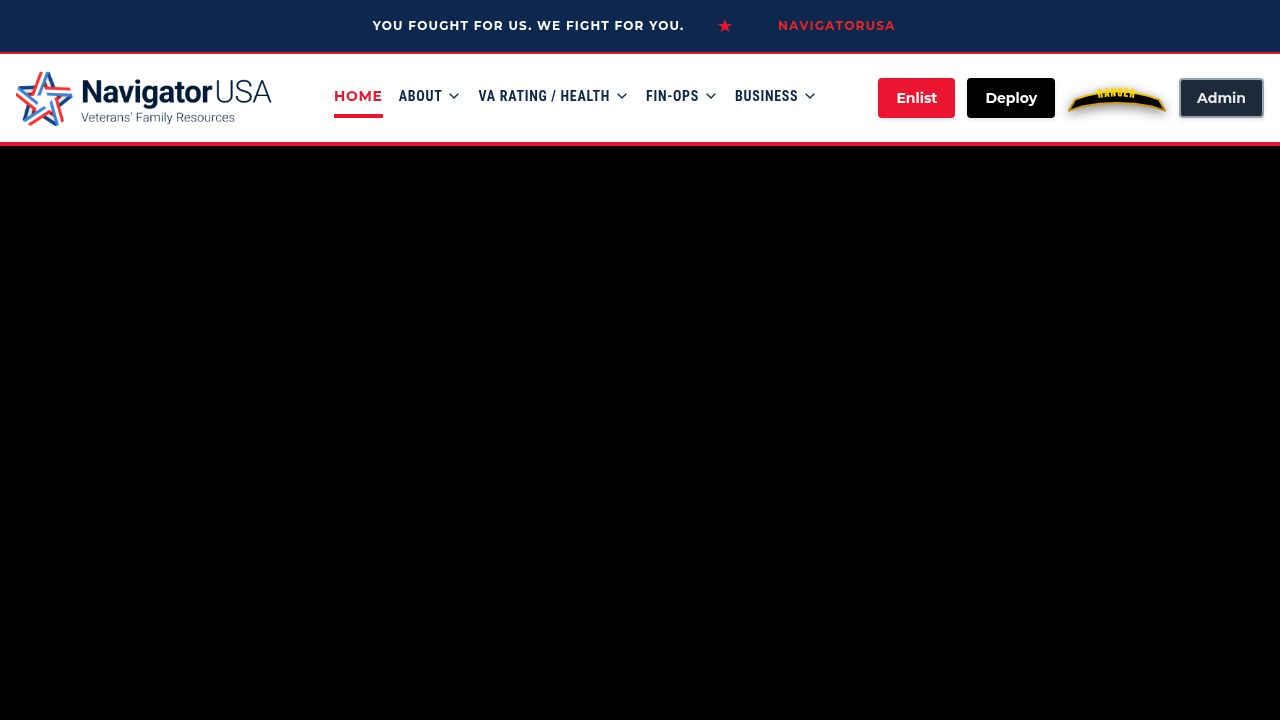
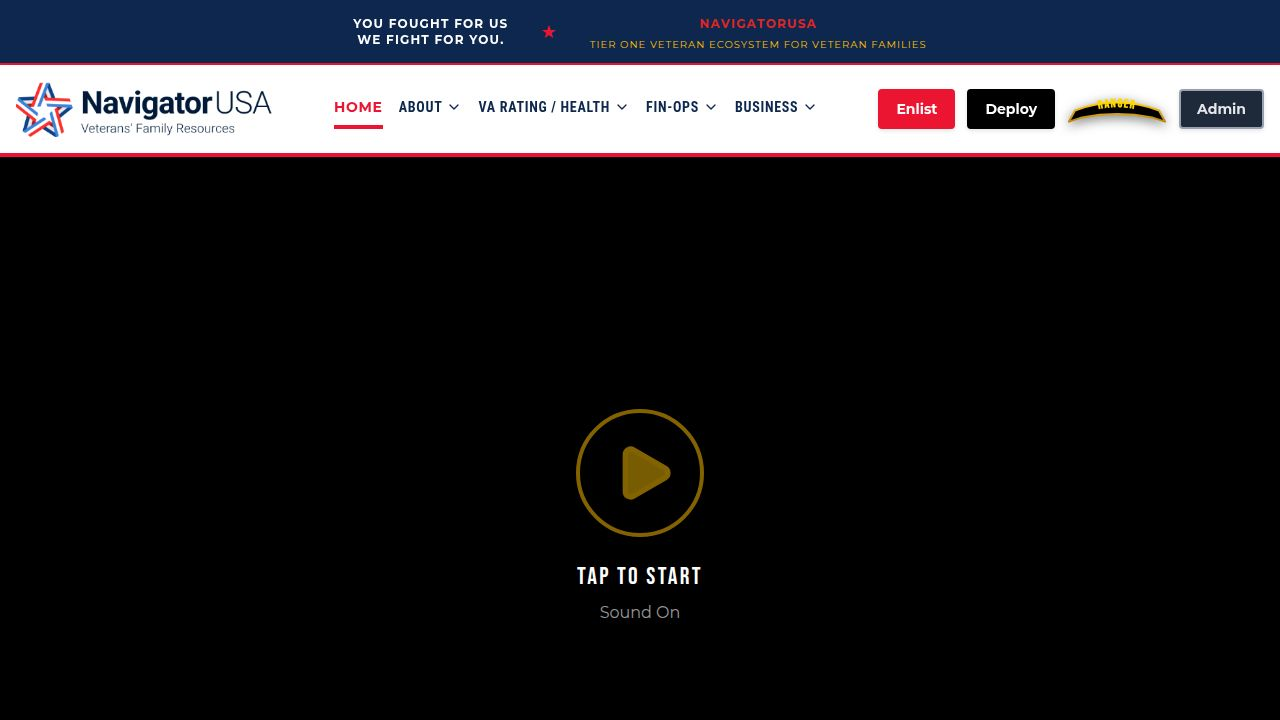
Fix video playback issues on mobile devices for the hero montage
Enhance hero-montage.tsx with improved video event handling, including fallbacks for 'ended' and 'loadedmetadata' events, and add user interaction prompts for mobile autoplay failures.

Replit-Commit-Author: Agent
Replit-Commit-Session-Id: 4bcf52f5-eead-4541-a161-487852c04bf9
Replit-Commit-Checkpoint-Type: intermediate_checkpoint
Replit-Commit-Event-Id: be114fcc-0f08-42fa-9fcb-d2e320edd09e
Replit-Commit-Screenshot-Url: https://storage.googleapis.com/screenshot-production-us-central1/f88dd830-92ac-4d12-a8c1-ac72bcbfbb85/4bcf52f5-eead-4541-a161-487852c04bf9/cKZmttT
Replit-Helium-Checkpoint-Created: true

diff --git a/client/src/components/hero-montage.tsx b/client/src/components/hero-montage.tsx
@@ -1,4 +1,4 @@
-import { useState, useEffect, useRef } from "react";
+import { useState, useEffect, useRef, useCallback } from "react";
 import { cn } from "@/lib/utils";
 
 const montageVideos = [
@@ -15,40 +15,108 @@ const montageVideos = [
 
 export function HeroMontage() {
   const [activeIndex, setActiveIndex] = useState(0);
+  const [needsInteraction, setNeedsInteraction] = useState(false);
   const videoRefs = useRef<(HTMLVideoElement | null)[]>([]);
+  const advancingRef = useRef(false);
+  const fallbackTimerRef = useRef<NodeJS.Timeout | null>(null);
+  const hasPlayedRef = useRef(false);
 
-  // Play active video, pause others
+  const clearFallbackTimer = useCallback(() => {
+    if (fallbackTimerRef.current) {
+      clearTimeout(fallbackTimerRef.current);
+      fallbackTimerRef.current = null;
+    }
+  }, []);
+
+  const advanceToNext = useCallback(() => {
+    if (advancingRef.current) return;
+    advancingRef.current = true;
+    
+    clearFallbackTimer();
+    setActiveIndex(prev => (prev + 1) % montageVideos.length);
+    
+    setTimeout(() => {
+      advancingRef.current = false;
+    }, 500);
+  }, [clearFallbackTimer]);
+
+  const attemptPlay = useCallback((video: HTMLVideoElement) => {
+    video.currentTime = 0;
+    const playPromise = video.play();
+    
+    if (playPromise) {
+      playPromise.then(() => {
+        hasPlayedRef.current = true;
+        setNeedsInteraction(false);
+        
+        clearFallbackTimer();
+        const duration = video.duration || 10;
+        fallbackTimerRef.current = setTimeout(advanceToNext, (duration + 1) * 1000);
+      }).catch(() => {
+        if (!hasPlayedRef.current) {
+          setNeedsInteraction(true);
+        }
+        clearFallbackTimer();
+        fallbackTimerRef.current = setTimeout(advanceToNext, 8000);
+      });
+    }
+  }, [advanceToNext, clearFallbackTimer]);
+
+  const handleTapToPlay = useCallback(() => {
+    setNeedsInteraction(false);
+    hasPlayedRef.current = true;
+    
+    const currentVideo = videoRefs.current[activeIndex];
+    if (currentVideo) {
+      attemptPlay(currentVideo);
+    }
+  }, [activeIndex, attemptPlay]);
+
   useEffect(() => {
     videoRefs.current.forEach((video, index) => {
       if (video) {
         if (index === activeIndex) {
-          video.currentTime = 0;
-          video.play().catch(() => {});
+          attemptPlay(video);
         } else {
           video.pause();
         }
       }
     });
-  }, [activeIndex]);
-
-  // Listen for video end to advance to next
-  useEffect(() => {
-    const currentVideo = videoRefs.current[activeIndex];
-    
-    const handleEnded = () => {
-      setActiveIndex(prev => (prev + 1) % montageVideos.length);
-    };
-
-    if (currentVideo) {
-      currentVideo.addEventListener("ended", handleEnded);
-    }
 
     return () => {
-      if (currentVideo) {
-        currentVideo.removeEventListener("ended", handleEnded);
+      clearFallbackTimer();
+    };
+  }, [activeIndex, attemptPlay, clearFallbackTimer]);
+
+  useEffect(() => {
+    const currentVideo = videoRefs.current[activeIndex];
+    if (!currentVideo) return;
+    
+    const handleEnded = () => advanceToNext();
+    
+    const handleTimeUpdate = () => {
+      if (currentVideo.duration > 0 && currentVideo.currentTime >= currentVideo.duration - 0.3) {
+        advanceToNext();
       }
     };
-  }, [activeIndex]);
+
+    const handleLoadedMetadata = () => {
+      if (currentVideo.duration > 0) {
+        clearFallbackTimer();
+        fallbackTimerRef.current = setTimeout(advanceToNext, (currentVideo.duration + 1) * 1000);
+      }
+    };
+
+    currentVideo.addEventListener("ended", handleEnded);
+    currentVideo.addEventListener("timeupdate", handleTimeUpdate);
+    currentVideo.addEventListener("loadedmetadata", handleLoadedMetadata);
+
+    return () => {
+      currentVideo.removeEventListener("ended", handleEnded);
+      currentVideo.removeEventListener("timeupdate", handleTimeUpdate);
+      currentVideo.removeEventListener("loadedmetadata", handleLoadedMetadata);
+    };
+  }, [activeIndex, advanceToNext, clearFallbackTimer]);
 
   return (
     <div className="absolute inset-0 z-0 overflow-hidden bg-brand-navy">
@@ -69,6 +137,18 @@ export function HeroMontage() {
       ))}
       
       <div className="absolute inset-0 bg-gradient-to-t from-brand-navy via-brand-navy/50 to-brand-navy/30 z-10" />
+      
+      {needsInteraction && (
+        <button
+          onClick={handleTapToPlay}
+          className="absolute inset-0 z-30 flex items-center justify-center bg-black/40 cursor-pointer"
+          data-testid="montage-tap-to-play"
+        >
+          <div className="bg-brand-navy/80 text-white px-6 py-3 rounded-lg border-2 border-brand-gold font-semibold">
+            Tap to Start Video
+          </div>
+        </button>
+      )}
       
       <div className="absolute bottom-4 left-1/2 -translate-x-1/2 z-20 flex gap-1.5 sm:gap-2">
         {montageVideos.map((_, index) => (
